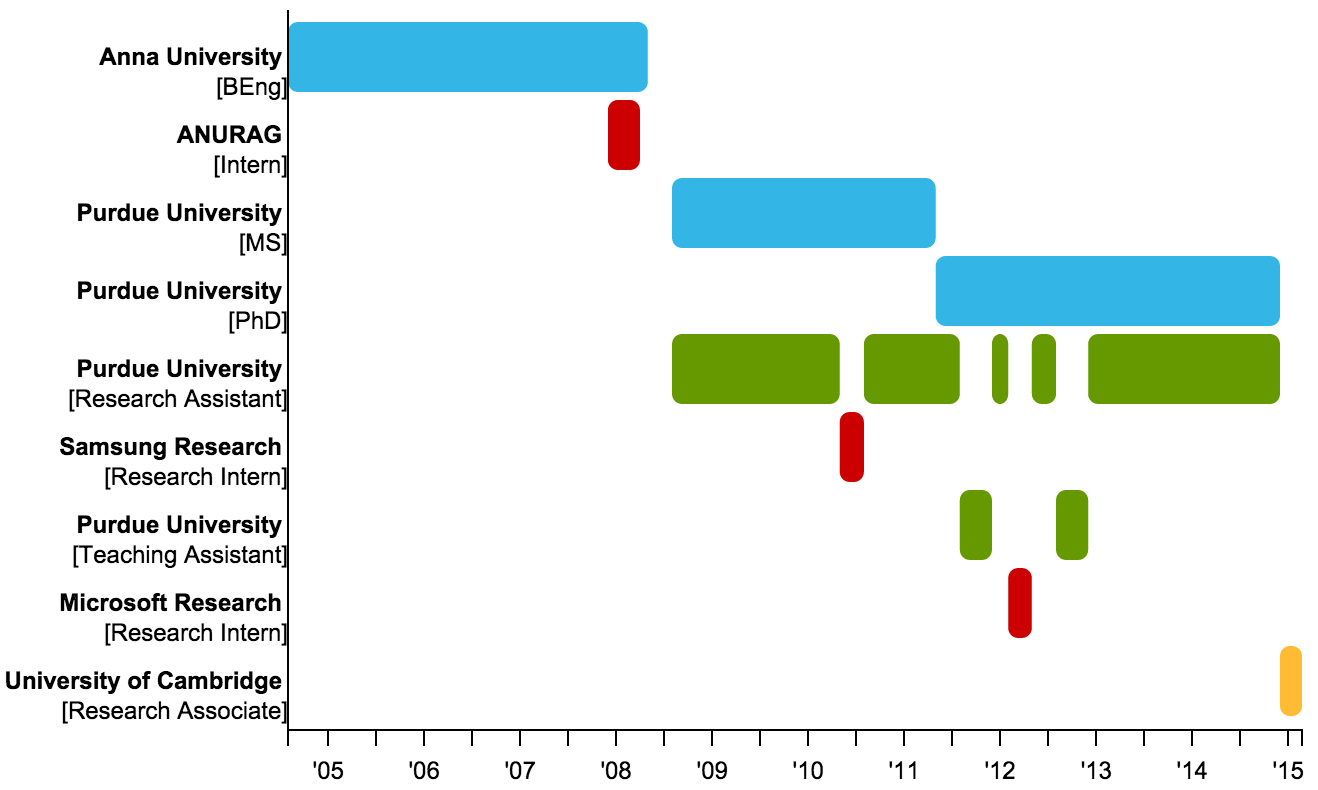
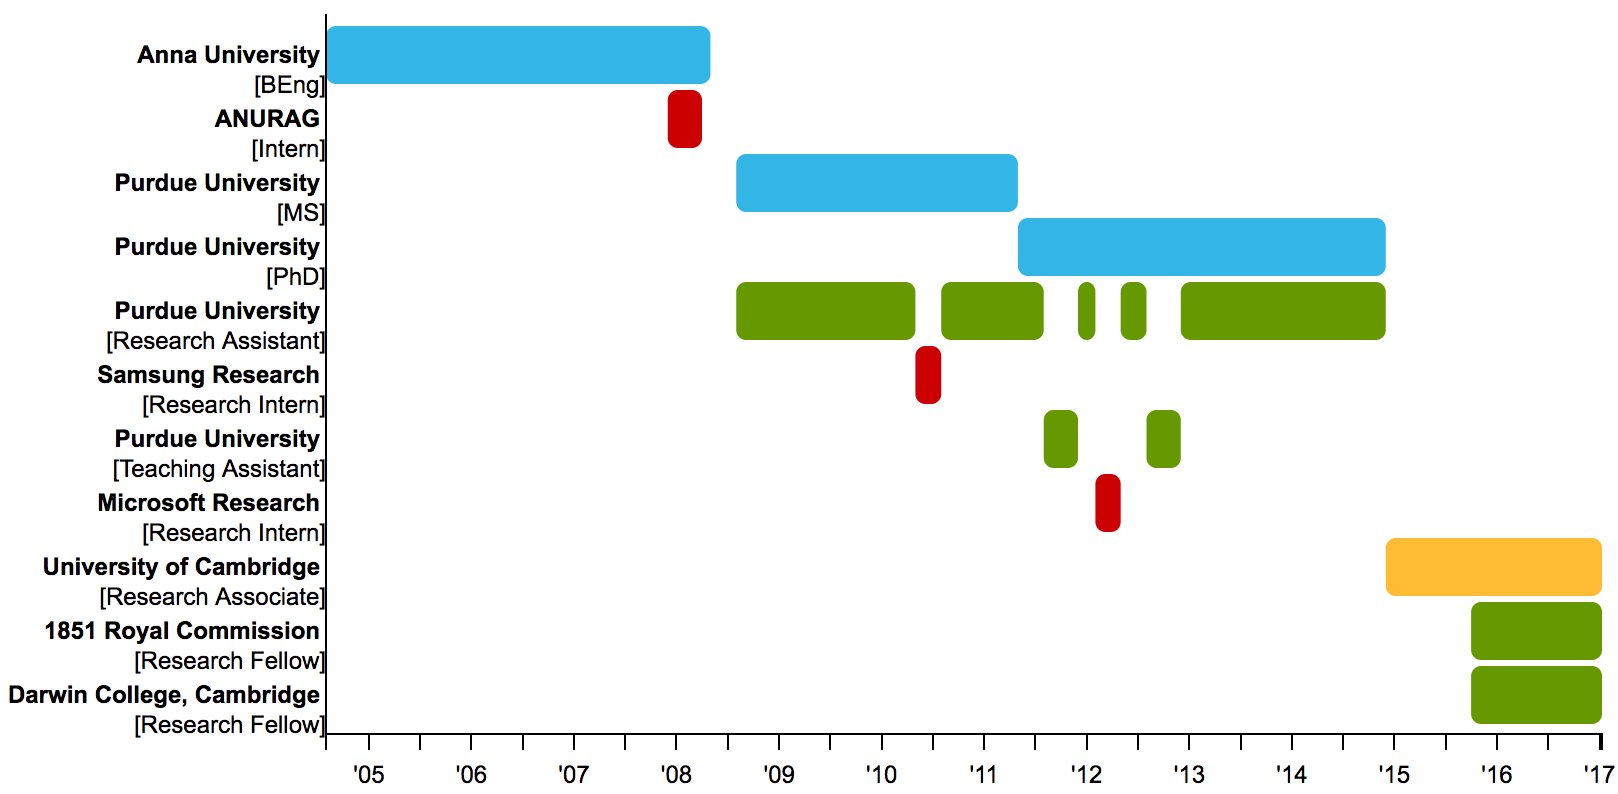
More edits

Changed region(s): [[0.0, 0.0304, 1.0, 1.0]]

diff --git a/scripts/gantt.js b/scripts/gantt.js
@@ -13,6 +13,8 @@ var tasks = [
 {"startDate":new Date("Aug 2012"),"endDate":new Date("Dec 2012"), "taskName":"Purdue University\n[Teaching Assistant]","status":"ASSISTANTSHIP"},
 {"startDate":new Date("Dec 2012"),"endDate":new Date("Dec 2014"), "taskName":"Purdue University\n[Research Assistant]","status":"ASSISTANTSHIP"},
 {"startDate":new Date("Dec 2014"),"endDate":new Date(), "taskName":"University of Cambridge\n[Research Associate]","status":"JOB"},
+{"startDate":new Date("Oct 2015"),"endDate":new Date(), "taskName":"1851 Royal Commission\n[Research Fellow]","status":"ASSISTANTSHIP"},
+{"startDate":new Date("Oct 2015"),"endDate":new Date(), "taskName":"Darwin College, Cambridge\n[Research Fellow]","status":"ASSISTANTSHIP"},
 ];
 
 var taskStatus = {
@@ -32,6 +34,8 @@ var taskNames = [
 	"Purdue University\n[Teaching Assistant]",
 	"Microsoft Research\n[Research Intern]",
 	"University of Cambridge\n[Research Associate]",
+  "1851 Royal Commission\n[Research Fellow]",
+  "Darwin College, Cambridge\n[Research Fellow]"
 ];
 
 tasks.sort(function(a, b) {

diff --git a/index.md b/index.md
@@ -53,6 +53,13 @@ India](https://www.annauniv.edu/).
  * Multicore Runtime : [JFP14](#jfp14) | [MARC12](#marc12) | [ISMM12](#ismm12) | [SFMA11](#sfma11)
  * Session Types : [SCP13](#scp13) | [COORDINATION10](#coordination10)
 
+## Drafts
+
+ 1. <div id="snapl17"/> Gowtham Kaki, KC Sivaramakrishnan, Thomas Gazagnaire, Anil Madhavapeddy, Suresh Jagannathan
+<div> [DaLi: Database as a Library](papers/snapl17_draft.pdf) </a> </div>
+<div> Draft, *In submission*, Jan 2017 </div>
+<div style="line-height: 50%"> </br> </div>
+
 ## PhD Dissertation
 
  * <div id="phd"/> KC Sivaramakrishnan
@@ -158,7 +165,7 @@ Interface to Eventually Consistent Key-Value Stores](papers/quelea_ieee16.pdf) <
 <div> *Workshop on Declarative Aspects of Multicore Programming (DAMP), 2010* </div>
 <div style="font-size: 80%"> [\[bib\]](bib/damp10.txt) </div>
 
-## Technical Reports and Drafts
+## Technical Reports
 
  1. <div id="tr11"/> KC Sivaramakrishnan, Lukasz Ziarek, Suresh Jagannathan
 <div> [Featherweight Threads for Communication](papers/parasites_tech11.pdf) </a> </div>

diff --git a/timeline.md b/timeline.md
@@ -1,6 +1,7 @@
 ---
 layout: default
 title: Timeline
+permalink: timeline.html
 ---
 
 <script type="text/javascript" src="/scripts/d3.min.js"></script>
